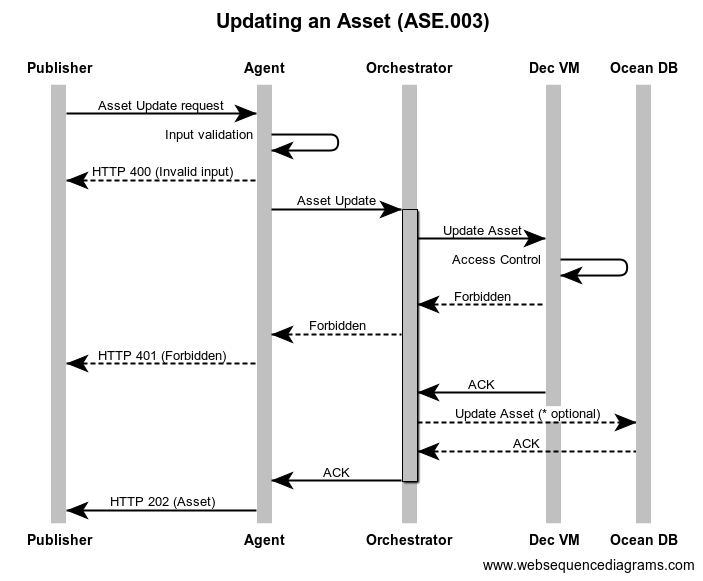
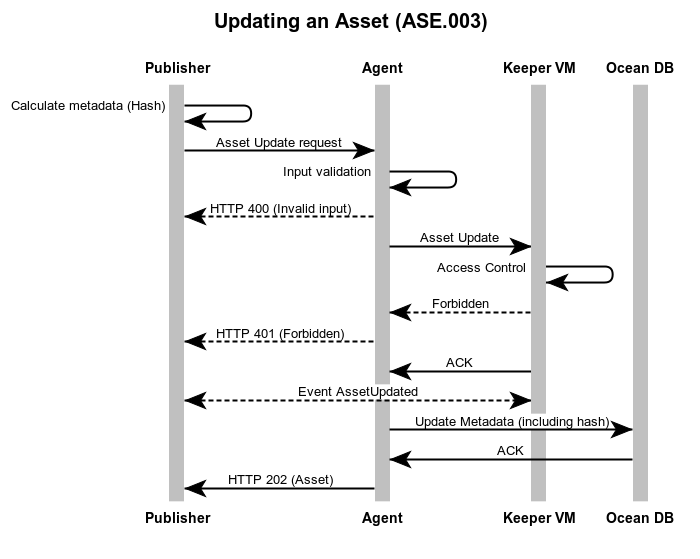
new sequence diagrams

Changed region(s): [[0.0, 0.0912, 0.99, 1.0], [0.3, 0.0, 0.69, 0.0608], [0.87, 0.0912, 0.96, 0.1521]]

diff --git a/14/diagrams/ASE.001.md b/14/diagrams/ASE.001.md
@@ -6,32 +6,32 @@ title Registering an Asset (ASE.001)
 # ASE.001
 participant Publisher
 participant Agent
-participant Orchestrator
-participant Dec VM
+participant Keeper VM
 participant Ocean DB
 
-Publisher->Agent: Asset Register request
+
+Publisher->Publisher: Calculate metadata (Hash)
+
+Publisher->Keeper VM: Asset Register request (pricing, hash)
+Keeper VM-->Keeper VM: Validation
+Keeper VM->Publisher: ACK
+
+Keeper VM<-->Publisher: Event AssetRegistered
+Publisher->Agent: Asset Metadata Register request (assetId, metadata, hash)
 
 Agent->Agent: Input validation
 
 Agent-->Publisher: HTTP 400 (Invalid params)
 
-Agent->+Orchestrator: Asset Registering
 
-Orchestrator->Dec VM: Register Asset
-Dec VM-->Dec VM: Access Control
-Dec VM-->Orchestrator: Forbidden
-Orchestrator-->Agent: Forbidden
-Agent-->Publisher: HTTP 401 (Forbidden)
-Dec VM->Orchestrator: ACK
-
-Orchestrator->Orchestrator: Is Ocean DB enabled?
-Orchestrator<-->Ocean DB: Register Asset
+Agent->Agent: Is Ocean DB enabled?
+Agent->Ocean DB: Register Metadata
 
 
-Orchestrator->-Agent: ACK
+Ocean DB->Agent: ACK
 
 Agent->Publisher:  HTTP 202 (Asset)
+
 
 ```
 

diff --git a/14/diagrams/ASE.004.md b/14/diagrams/ASE.004.md
@@ -7,33 +7,26 @@ title Retiring an Asset (ASE.004)
 # ASE.004
 participant Publisher
 participant Agent
-participant Orchestrator
-participant Dec VM
+participant Keeper VM
 participant Ocean DB
 
-Publisher->Agent: Asset Register request
+Publisher->Keeper VM: Retire Asset (assetId)
 
-Agent->Agent: Input validation
+Keeper VM->Keeper VM: Input validation
+Keeper VM-->Publisher: Error (Invalid params)
 
-Agent-->Publisher: HTTP 400 (Invalid user)
+Keeper VM->Keeper VM: Access Control
+Keeper VM-->Publisher: Error (Forbidden)
+
+Keeper VM->Publisher: ACK
 
 
-Agent->+Orchestrator: Retire Asset
 
-Orchestrator->Dec VM: Retire Asset
-Dec VM->Dec VM: Access Control
-Dec VM-->Orchestrator: Forbidden
-Orchestrator-->Agent: Forbidden
-Agent-->Publisher: HTTP 401 (Forbidden)
+Keeper VM<-->Publisher: Event AssetRetired
+Keeper VM<-->Agent: Event AssetRetired
 
-Dec VM->Orchestrator: ACK
-Orchestrator-->Ocean DB: Retire Asset (* optional)
-Ocean DB-->Orchestrator: ACK
-
-Orchestrator->-Agent: ACK
-
-Agent->Publisher:  HTTP 202 (Asset)
-
+Agent->Ocean DB: Retire Asset
+Ocean DB->Agent: ACK
 
 
 ```

diff --git a/14/diagrams/ASE.003.md b/14/diagrams/ASE.003.md
@@ -6,9 +6,10 @@ title Updating an Asset (ASE.003)
 # ASE.003
 participant Publisher
 participant Agent
-participant Orchestrator
-participant Dec VM
+participant Keeper VM
 participant Ocean DB
+
+Publisher->Publisher: Calculate metadata (Hash)
 
 Publisher->Agent: Asset Update request
 
@@ -16,27 +17,23 @@ Agent->Agent: Input validation
 
 Agent-->Publisher: HTTP 400 (Invalid input)
 
-Agent->+Orchestrator: Asset Update
+Agent->Keeper VM: Asset Update
+Keeper VM->Keeper VM: Access Control
 
-Orchestrator->Dec VM: Update Asset
+Keeper VM-->Agent: Forbidden
 
-Dec VM->Dec VM: Access Control
-Dec VM-->Orchestrator: Forbidden
-Orchestrator-->Agent: Forbidden
 Agent-->Publisher: HTTP 401 (Forbidden)
 
 
-Dec VM->Orchestrator: ACK
+Keeper VM->Agent: ACK
 
-Orchestrator-->Ocean DB: Update Asset (* optional)
-Ocean DB-->Orchestrator: ACK
+Keeper VM<-->Publisher: Event AssetUpdated
 
-Orchestrator->-Agent: ACK
+Agent->Ocean DB: Update Metadata (including hash)
+Ocean DB->Agent: ACK
+
 
 Agent->Publisher:  HTTP 202 (Asset)
-
-
-
 
 
 

diff --git a/14/diagrams/ASE.002.md b/14/diagrams/ASE.002.md
@@ -1,30 +1,27 @@
 Open on [websequencediagrams.com](https://www.websequencediagrams.com/)
 
 ```text
-title Retrieve Asset information (ASE.002)
+title Retrieve Asset Metadata (ASE.002)
 
 participant Any
 participant Agent
-participant Dec. VM
 participant Ocean DB
 
-Any->Agent: Get an Asset (ASE.002)
+Any->Agent: Get Metadata (ASE.002)
 note right of Any: Could be sent by any Actor
 
 Agent->Agent: Validate assetId
 Agent-->Any:HTTP 400 (bad request)
 
-Agent->Dec. VM:Get asset info
-note left of Dec. VM: Searching if Asset exists \n && contentState != 9
+Agent-->Agent: Is Ocean DB enabled?
+Agent->Ocean DB:Get asset Metadata (assetId)
 
-Dec. VM-->Agent:Asset doesn't exists
+Ocean DB-->Agent:Asset doesn't exists
 Agent-->Any:HTTP 404 (not found)
 
-Dec. VM->Agent: Asset information
+Ocean DB->Agent: Asset information
 
-Agent-->Agent: Is Ocean DB enabled?
 
-Ocean DB<-->Agent: Asset information
 Agent-->Agent: Build Asset model
 
 Agent->Any: HTTP 200 (Asset)
